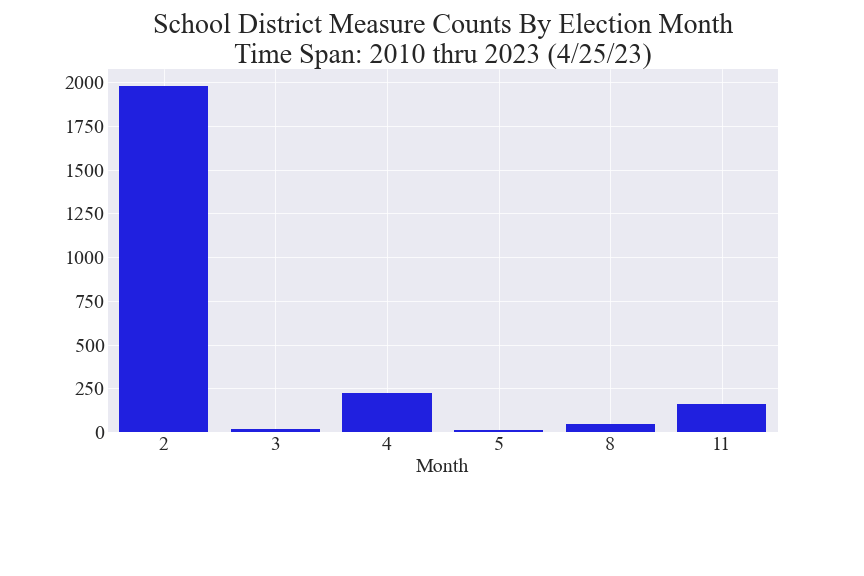
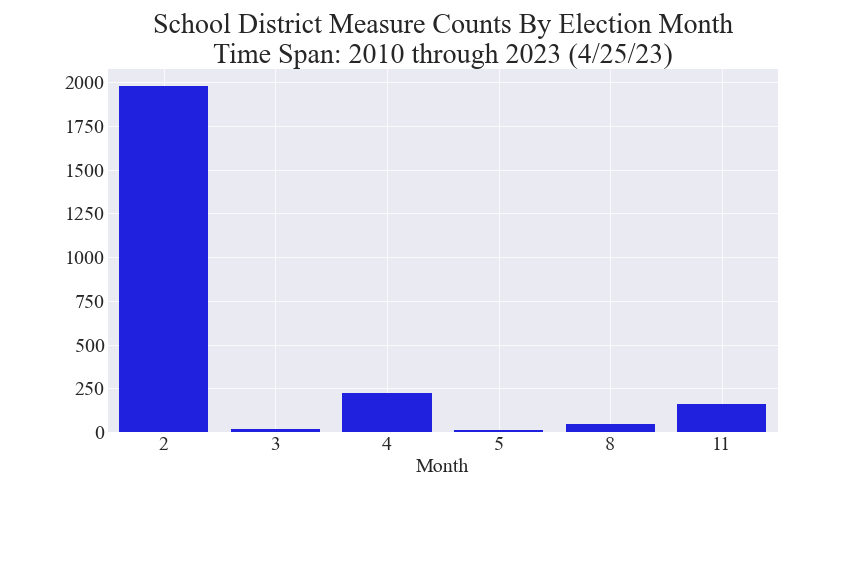
Updated election month report
Corrected:
Thru to through

Changed region(s): [[0.25, 0.0625, 0.7812, 0.125]]

diff --git a/pagesManual/ElectionMonthReport/report_election_month.md b/pagesManual/ElectionMonthReport/report_election_month.md
@@ -20,7 +20,7 @@ ___
 ## Summary
 School districts have the option of running their tax measures on any one of the possible elections in a given year: February, April, August (Primary), or November (General).
 They can only run their measures twice in 1 calendar year if it should fail in their first attempt. 
-This report summarizes the school district tax measures (bonds and levies) that were on the ballot for the time span of 2010 thru 2023 (4/25/23).
+This report summarizes the school district tax measures (bonds and levies) that were on the ballot for the time span of 2010 through 2023 (4/25/23).
 
 ___
 
@@ -77,8 +77,8 @@ ___
 ___
 
 ## Sources
-- OSPI for January 2010 thru October 2022
-- Washington’s Secretary of State for November 2022 thru April 2023
+- OSPI for January 2010 through October 2022
+- Washington’s Secretary of State for November 2022 through April 2023
 
 ___
 
